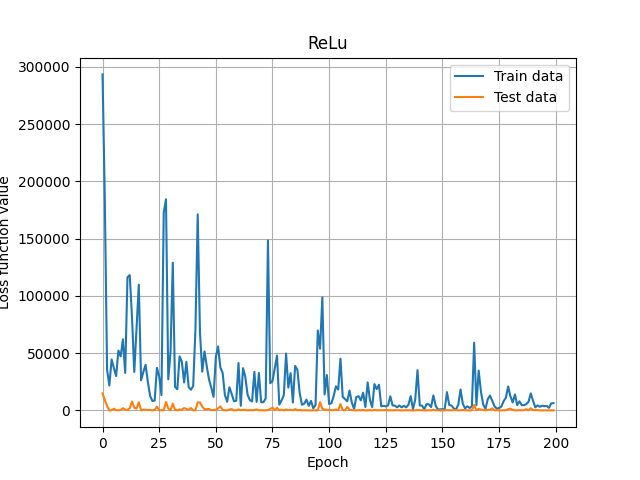
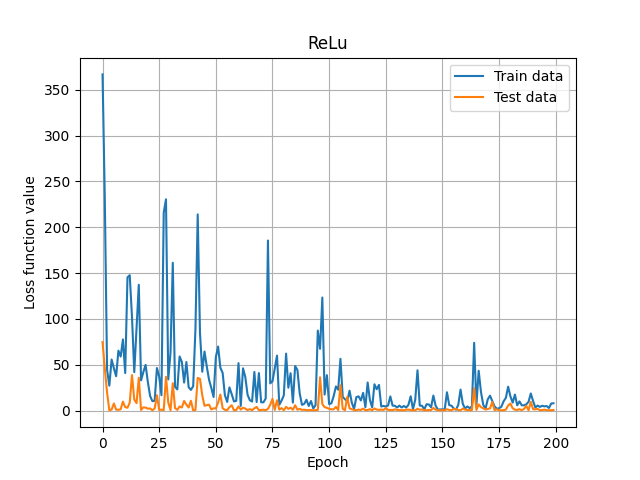
Fix plotting errors

diff --git a/neural_network/neural_network.py b/neural_network/neural_network.py
@@ -24,7 +24,6 @@ class NeuralNetwork:
         self.layers.append(layer)
 
     def predict(self, input_data: np.ndarray):
-        # input data could be 2d
         output = self.forward_propagation(input_data)
         return output
 
@@ -76,13 +75,17 @@ class NeuralNetwork:
             assert isinstance(y_test, np.ndarray)
             assert x_test.shape[1] == y_test.shape[1]
 
+            test_len = x_test.shape[1]
+
+        train_len = x_train.shape[1]
+
         test_errors = []
         errors = []
 
         for epoch in range(epochs):
             if calc_test_err:
                 test_output = self.forward_propagation(x_test, no_grad=True)
-                test_errors.append(self._loss_function.loss(test_output, y_test))
+                test_errors.append(self._loss_function.loss(test_output, y_test) / test_len)
 
             epoch_error = 0
             minibatch_generator = self.minibatch_generator(x_train, y_train, minibatch_size, True)
@@ -92,9 +95,11 @@ class NeuralNetwork:
                 error_derivative = self._loss_function.derivative(output, y)
                 self.backward_propagation(error_derivative, learning_rate)
 
-            errors.append(epoch_error)
+            errors.append(epoch_error / train_len)
+
 
         if calc_test_err:
+
             return errors, test_errors
 
         return errors

diff --git a/main.py b/main.py
@@ -13,7 +13,6 @@ from neural_network.neural_network import NeuralNetwork
 
 np.random.seed(42)
 
-
 def create_training_and_testing_data(n_samples: int, test_size: float, n_features: int):
     assert isinstance(test_size, float) and 0 < test_size < 1
     assert isinstance(n_samples, int) and n_samples > 0
